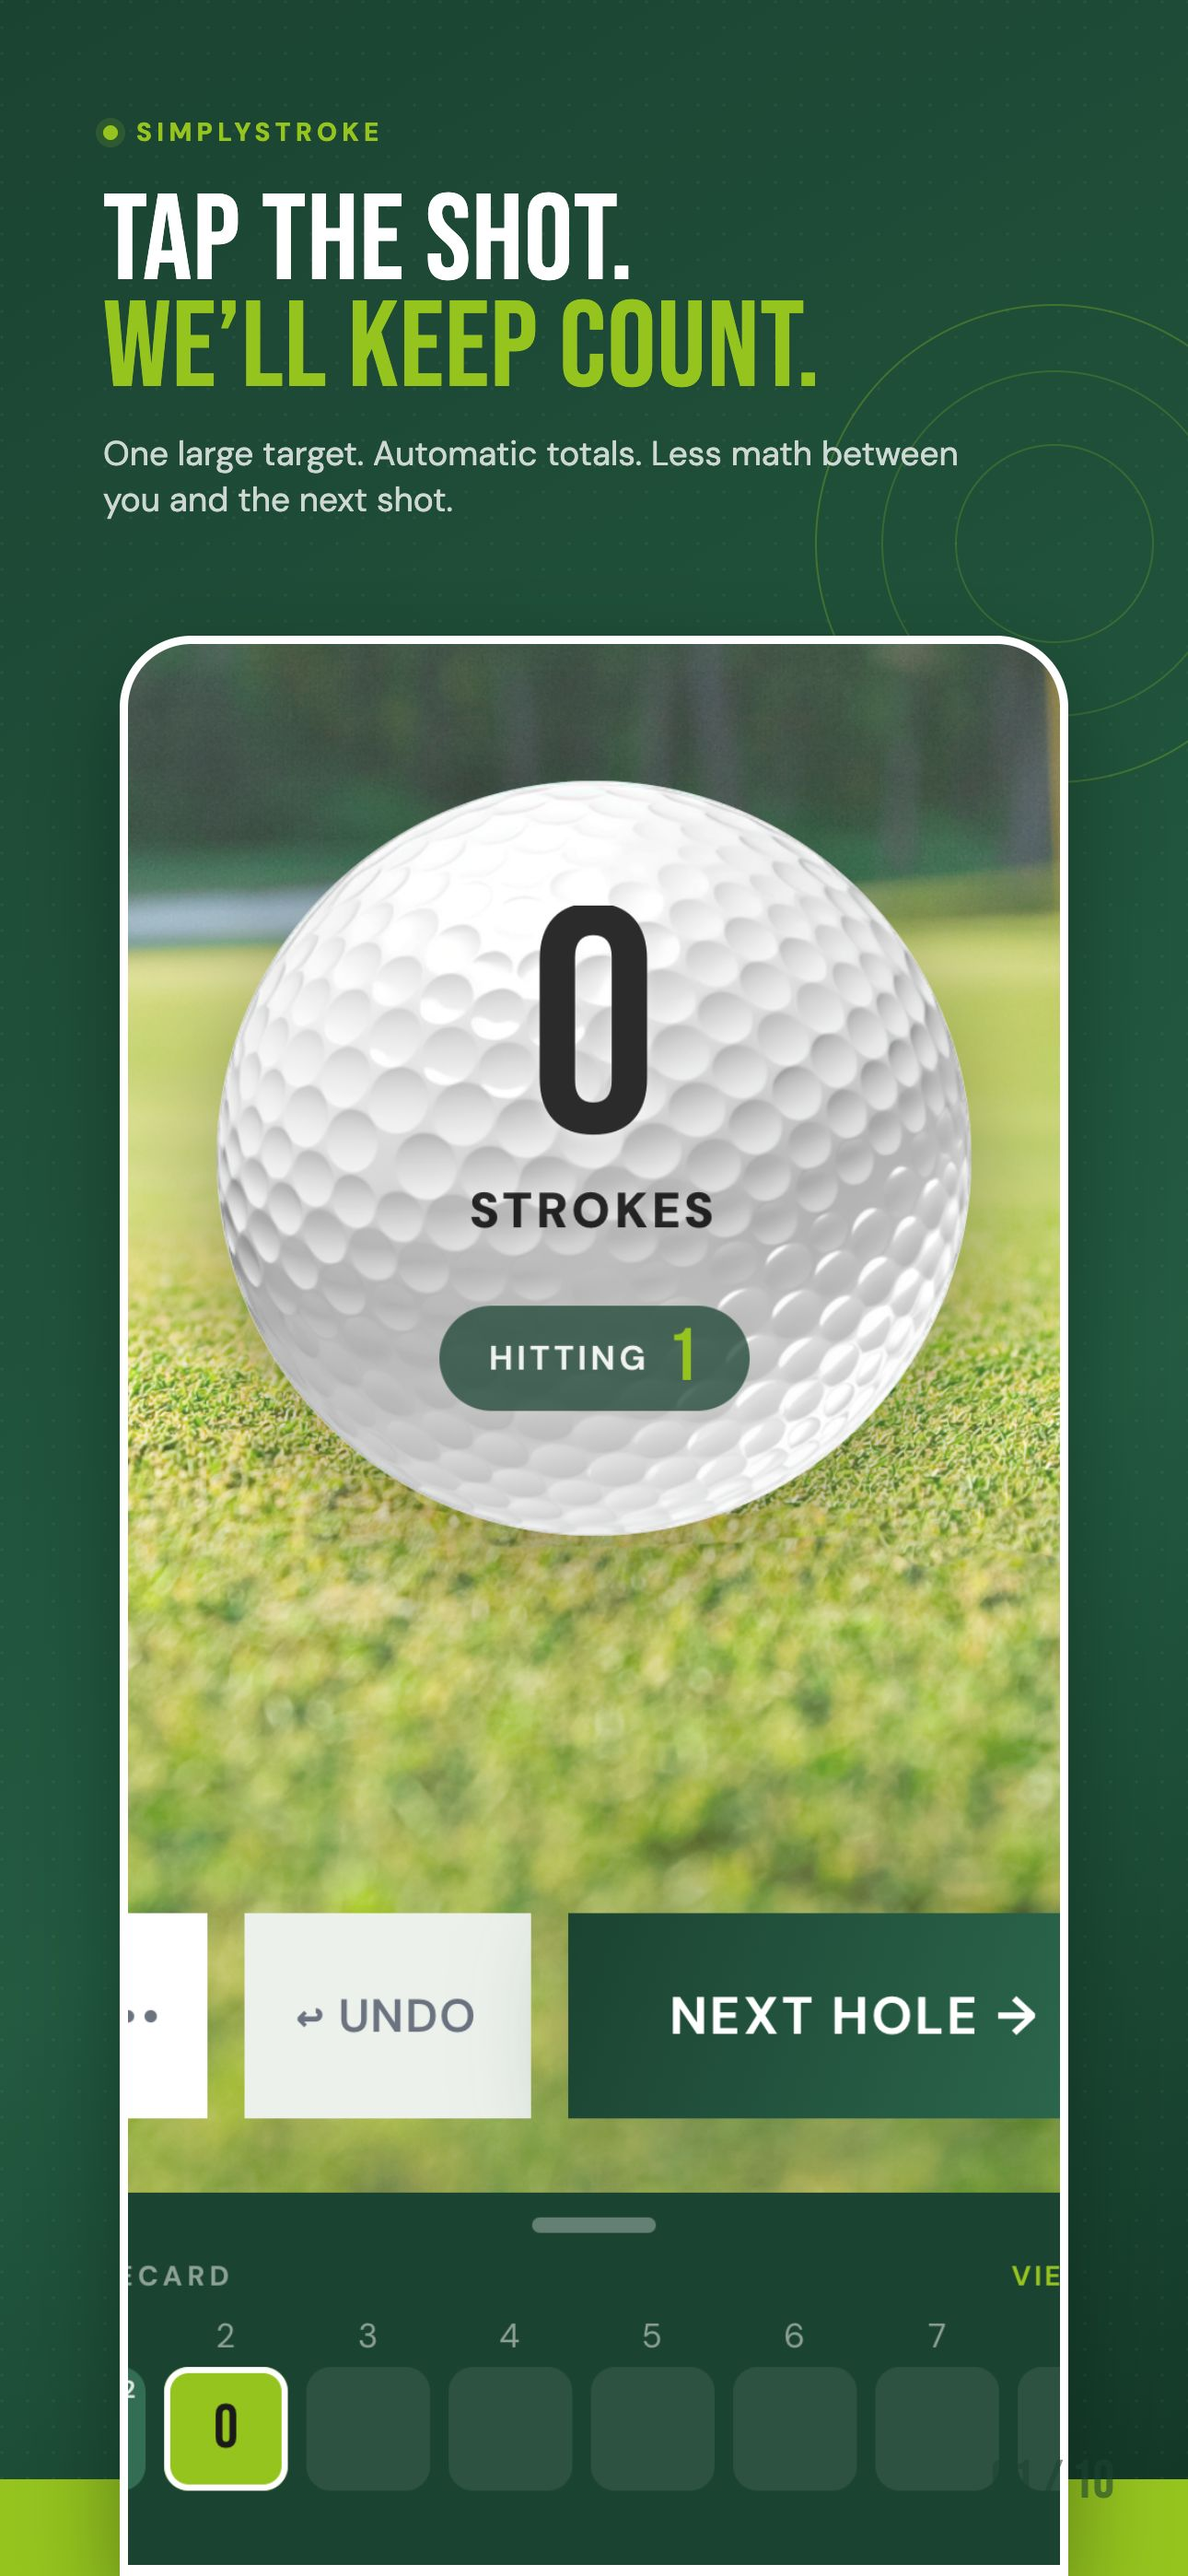
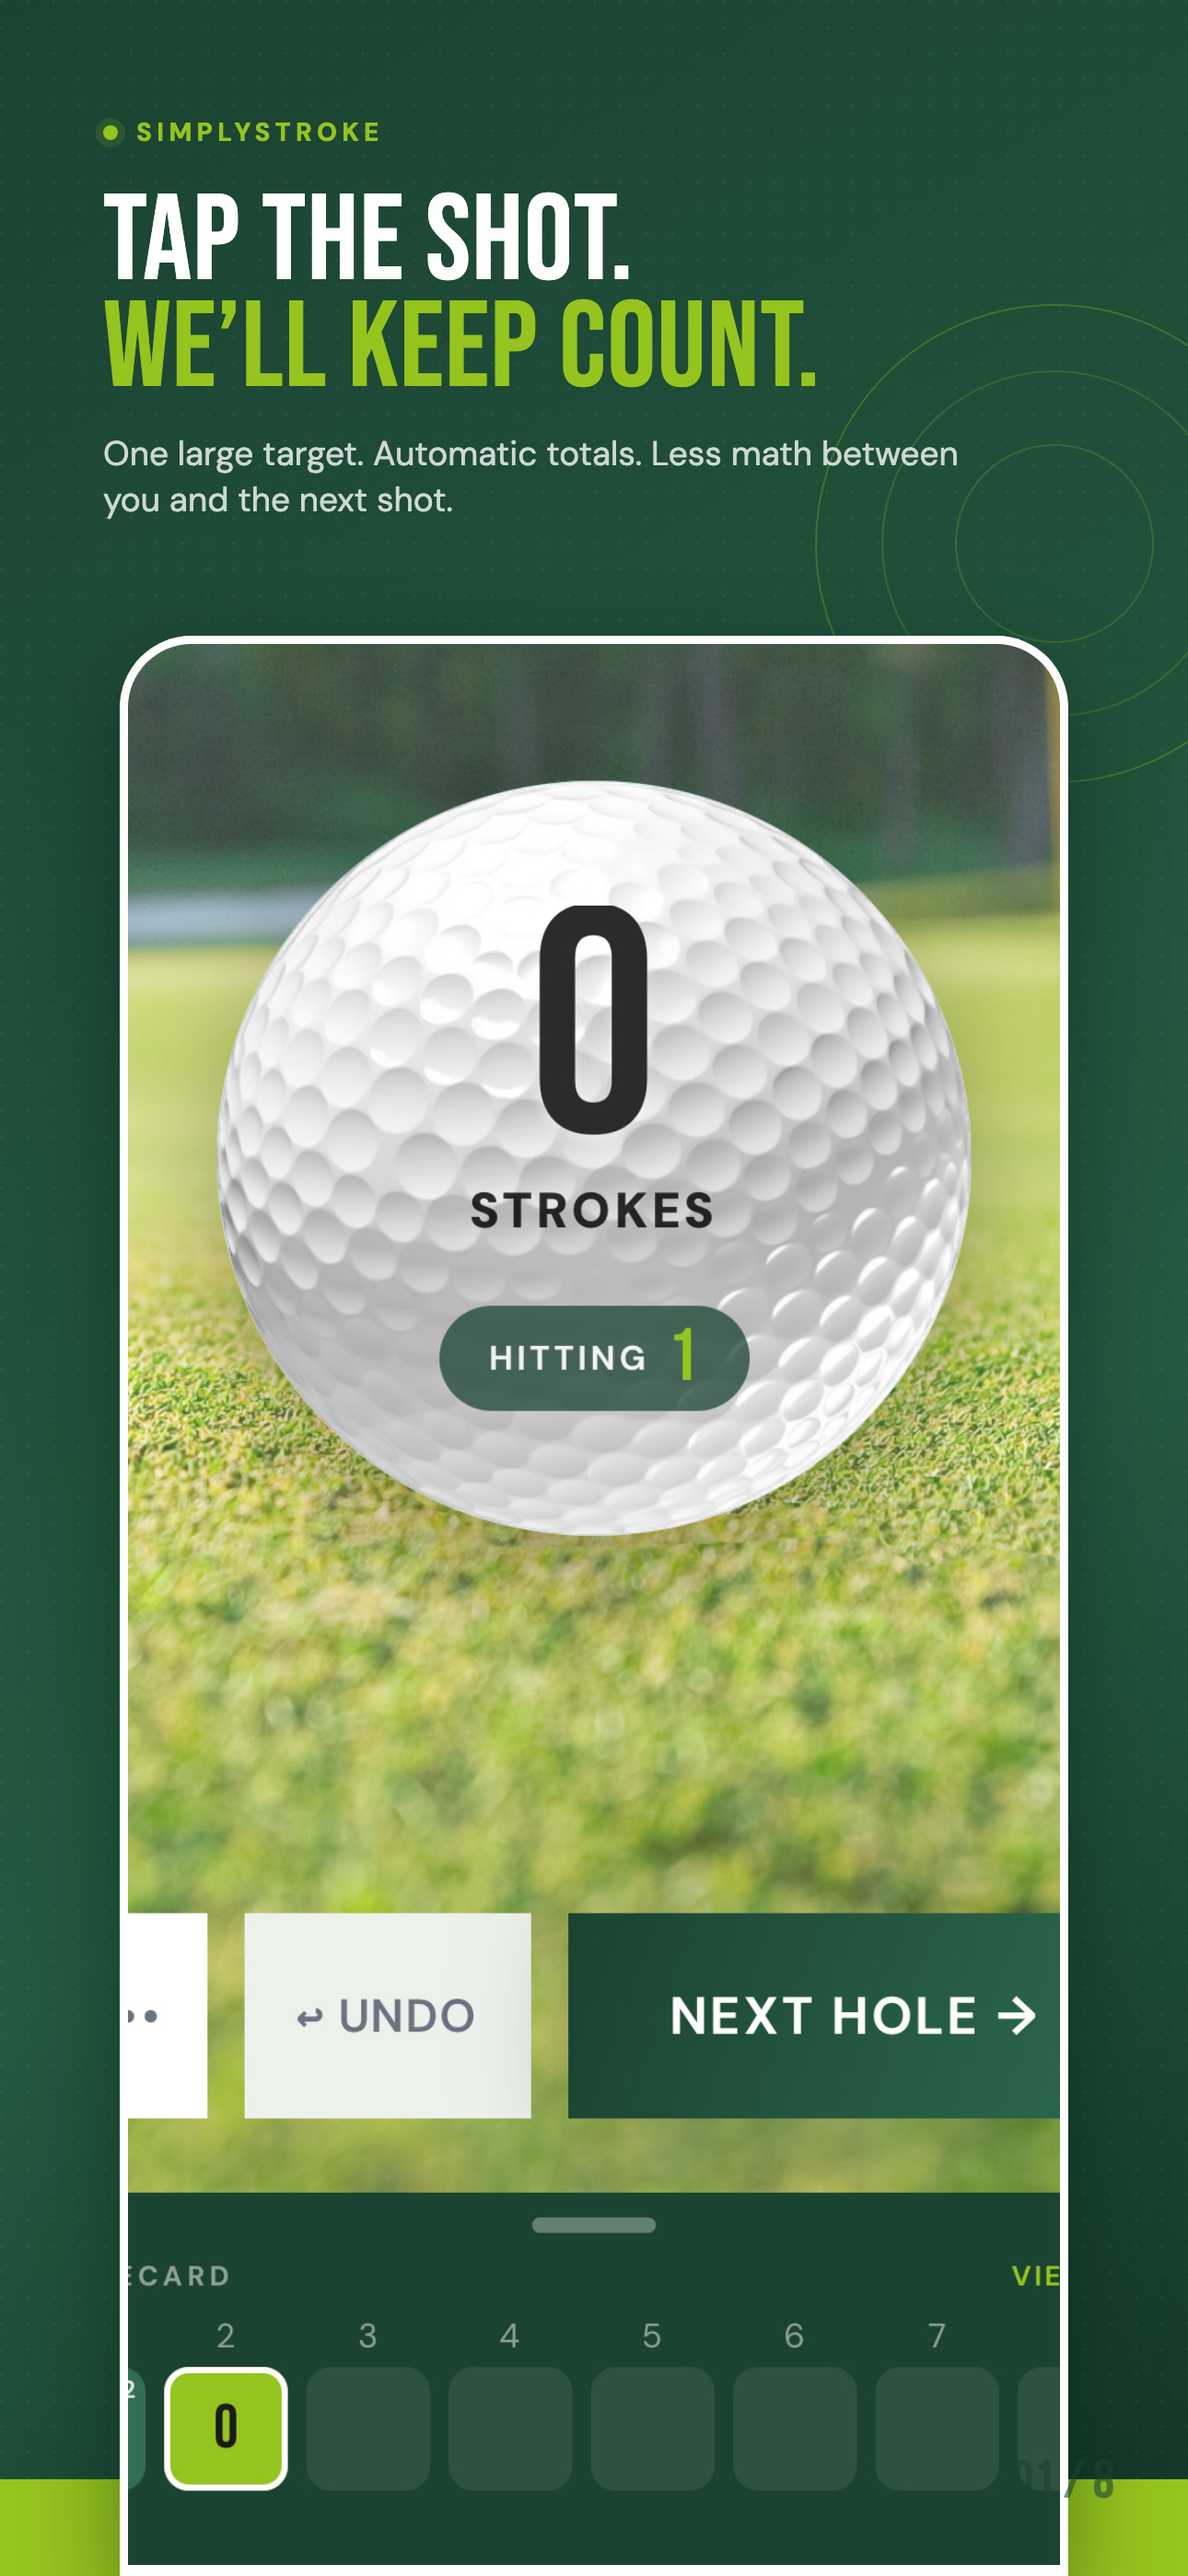
Correct App Store screenshot sequence

diff --git a/assets/app-store/1.0.4/README.md b/assets/app-store/1.0.4/README.md
@@ -4,6 +4,8 @@ Status: **design-complete draft; do not upload yet.**
 
 These eight 1290 × 2796 JPEGs use an accepted Apple 6.9-inch iPhone screenshot size. They contain no alpha channel. The source screens are real 1.0.4 app components captured from candidate a6553ee8cffce832e501289276551ec25c760910; the journal, season, crews, trips, and OCR data are fictional, write-free review fixtures.
 
+Each image is numbered against the eight-image set (`01 / 8` through `08 / 8`). `contact-sheet.jpg` was regenerated from these exact final draft files.
+
 ## Sequence
 
 1. 01-score.jpg — free one-tap scoring
